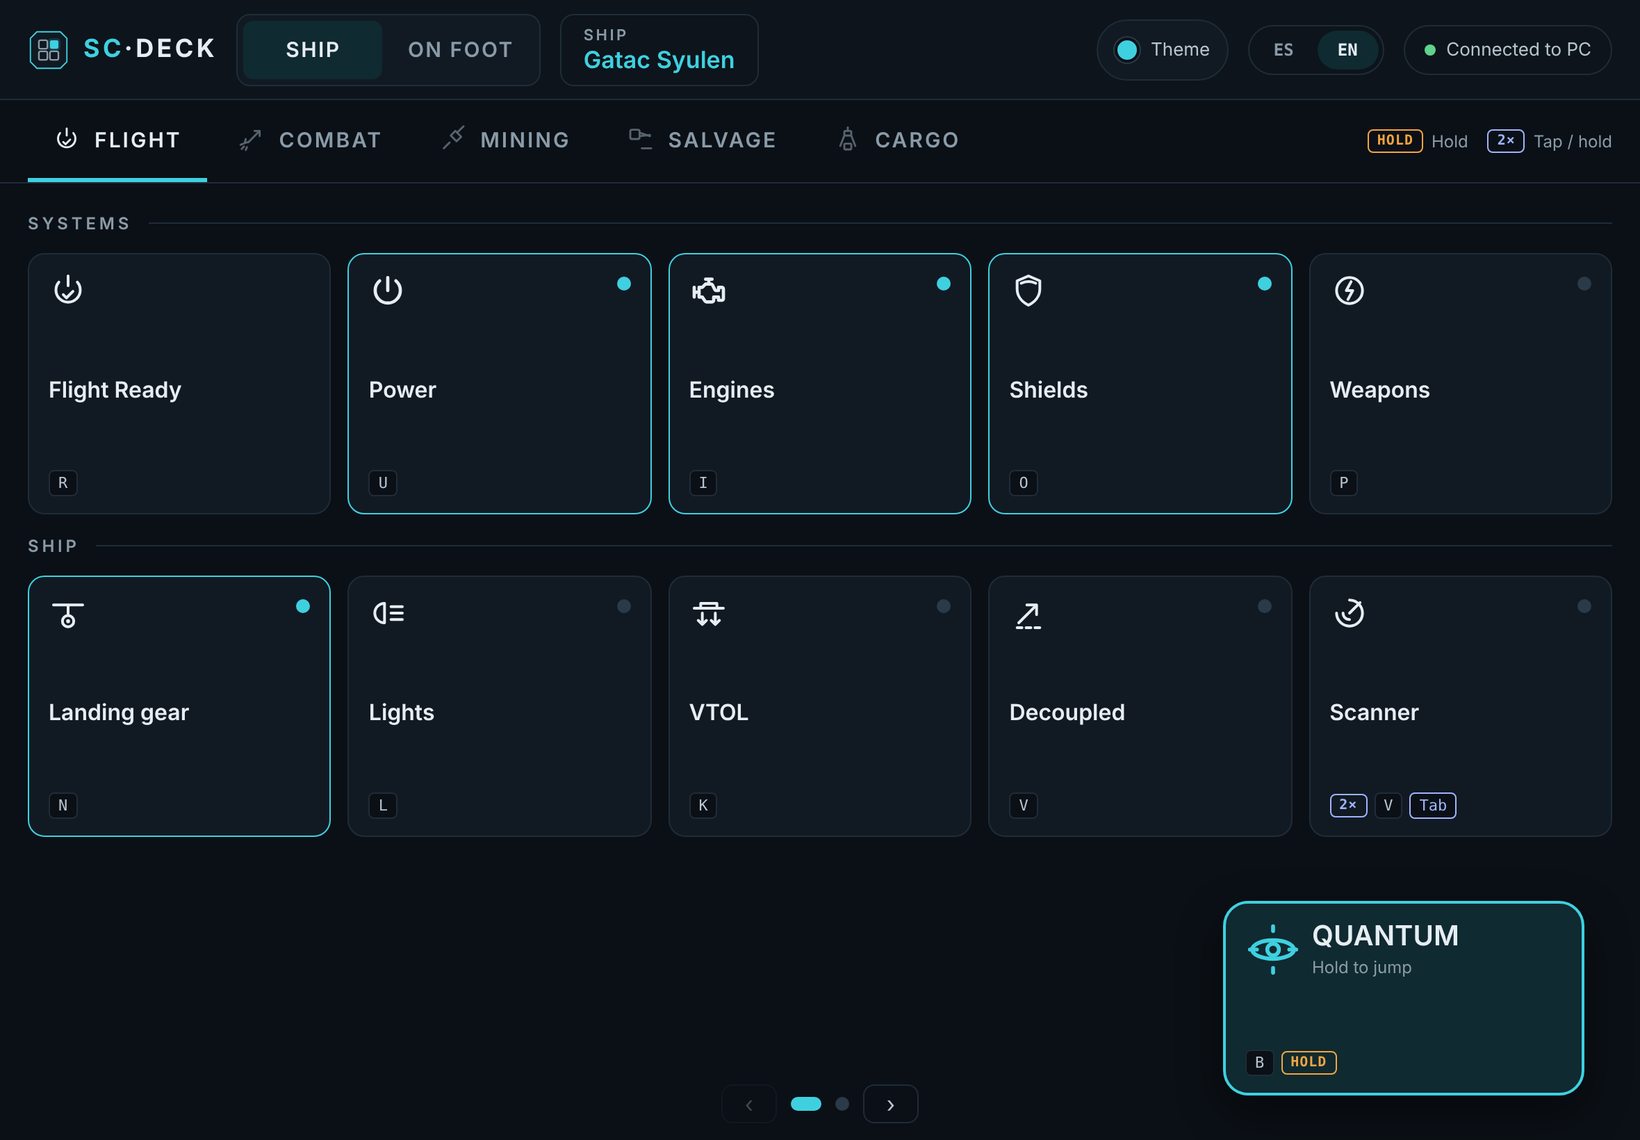
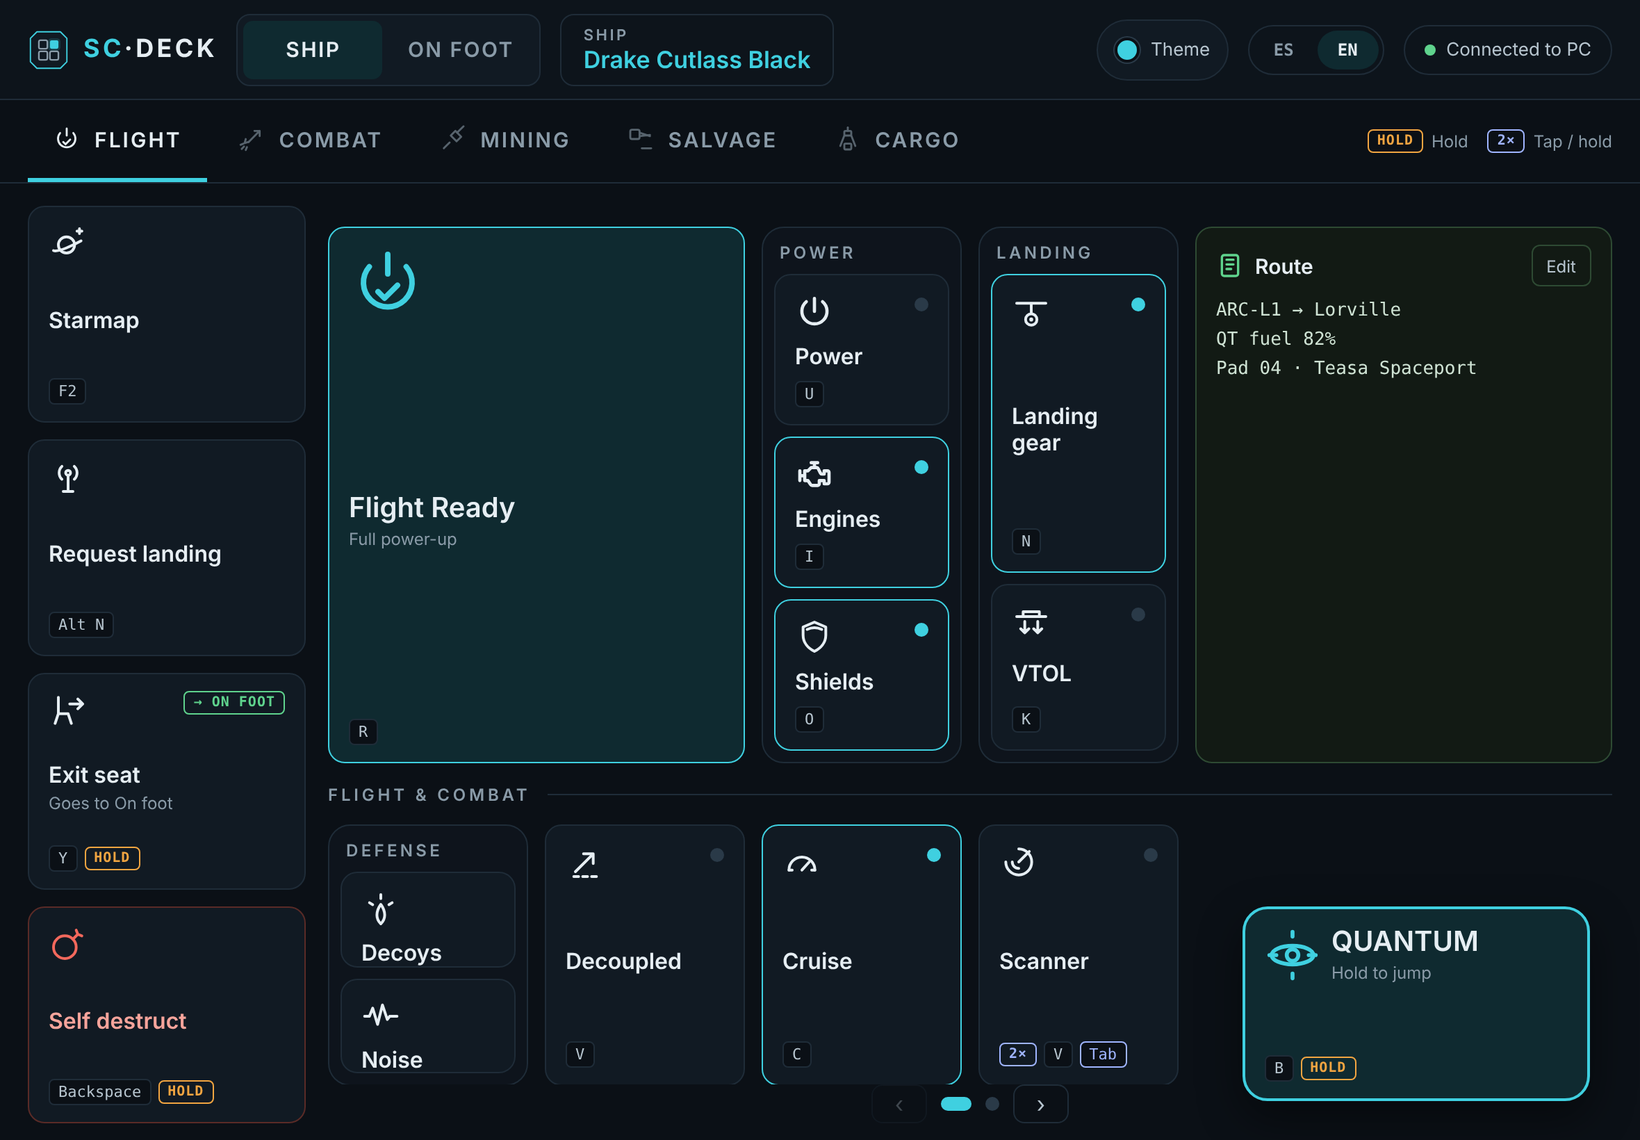
Description
Description

diff --git a/README.md b/README.md
@@ -13,7 +13,7 @@
 </p>
 
 <p align="center">
-  <img src="docs/panel-tablet.png" alt="SC Deck panel on a tablet, Flight mode" width="820">
+  <img src="docs/panel-tablet.png" alt="SC Deck panel on a tablet: Flight mode with a fixed column, a big button, vertical groups, a note and a floating Quantum button" width="820">
 </p>
 
 ---
